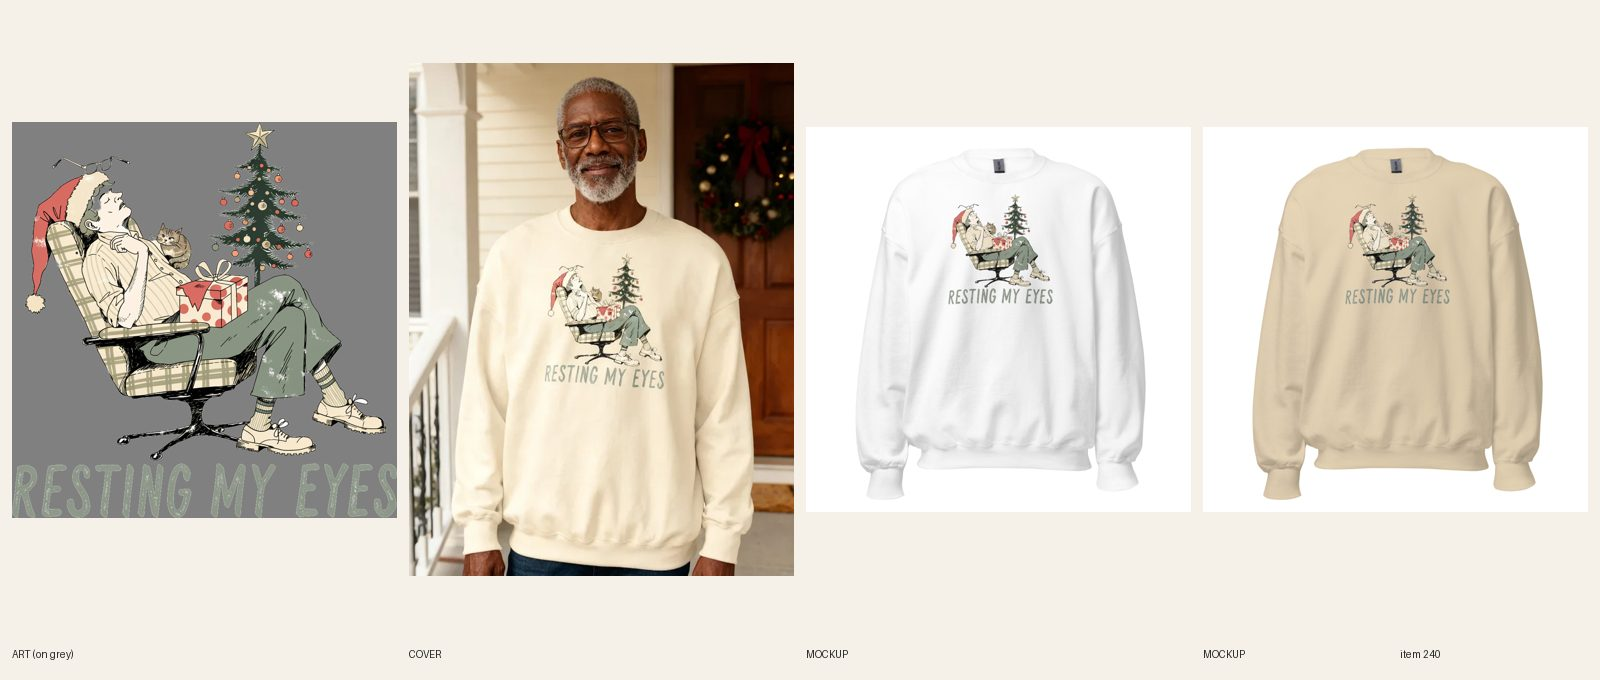
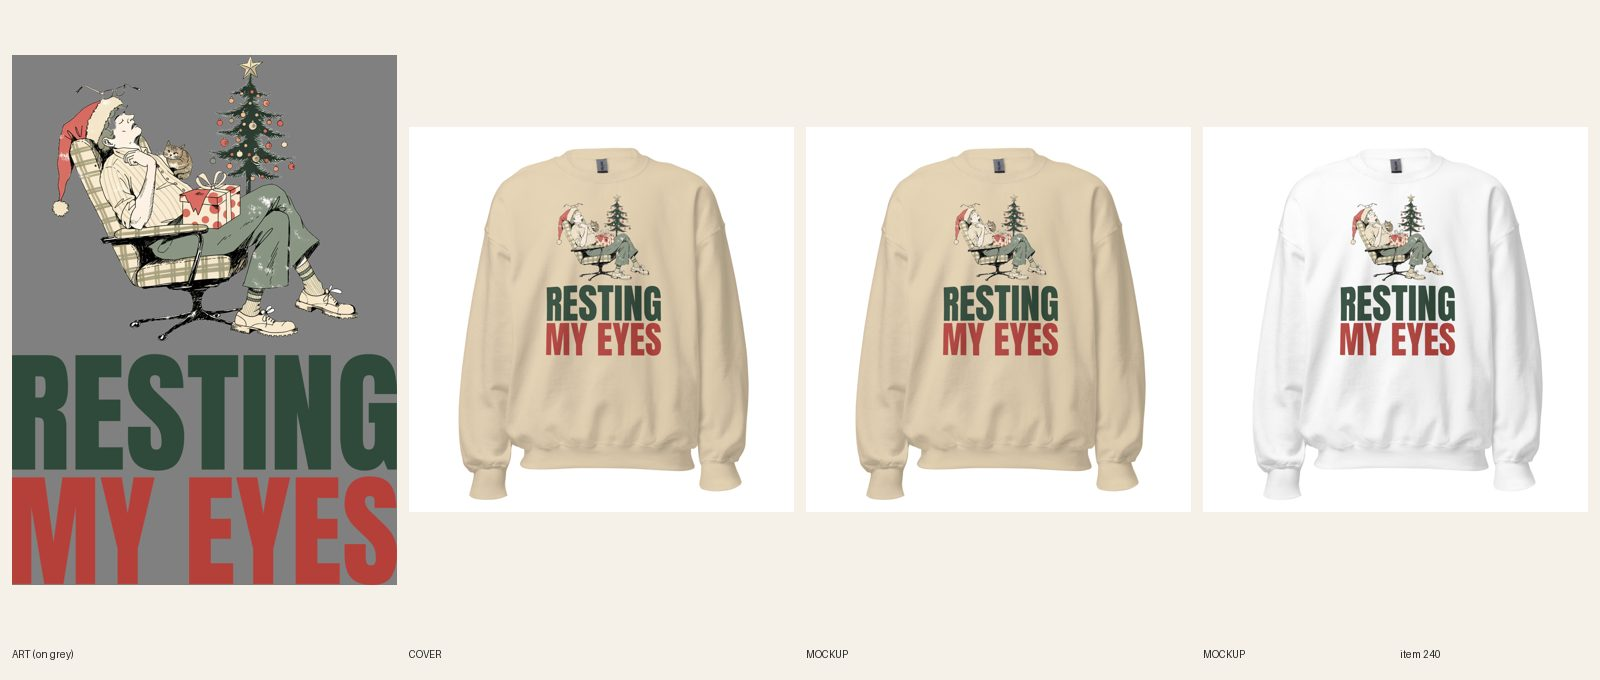
[A] review 240 Resting My Eyes crewneck (ported approved print)
Claude-Session: https://claude.ai/code/session_01WKArn2Q7AZgzsBAUz2oGzG

diff --git a/designs/a239/build-crew.py b/designs/a239/build-crew.py
@@ -1,0 +1,26 @@
+#!/usr/bin/env python3
+"""#239 quality-reset print: Resting My Eyes art (live print cropped above the old thin sage line) over a stacked
+heavy Anton lockup RESTING / MY EYES, both lines full width, tree green and hat red pulled from the art.
+usage: build-crew.py <src.png> <out.png> <art width fraction>  (crewneck file: art narrower so the stack fits the 16 in print area at FW 1650)"""
+import sys
+from pathlib import Path
+from PIL import Image, ImageDraw, ImageFont
+ROOT = Path(__file__).resolve().parents[2]; F = ROOT / 'designs' / 'fonts'
+src, out = sys.argv[1:3]
+W = 3400
+a = Image.open(src).convert('RGBA')
+art = a.crop((0, 0, 3600, 3166)); art = art.crop(art.getbbox())
+AW = int(W * float(sys.argv[3])); art = art.resize((AW, int(art.height * AW / art.width)), Image.LANCZOS)
+def line(text, fill, width, size=1400):
+    f = ImageFont.truetype(str(F / 'Anton-Regular.ttf'), size)
+    bb = f.getbbox(text)
+    img = Image.new('RGBA', (bb[2] + 40, bb[3] + 40), (0, 0, 0, 0))
+    ImageDraw.Draw(img).text((10, 10), text, font=f, fill=fill)
+    img = img.crop(img.getbbox())
+    return img.resize((width, int(img.height * width / img.width)), Image.LANCZOS)
+h = line('RESTING', '#2f4a3a', W); s = line('MY EYES', '#b5403a', W)
+g1, g2 = 110, 50
+c = Image.new('RGBA', (W, art.height + g1 + h.height + g2 + s.height), (0, 0, 0, 0))
+c.alpha_composite(art, ((W - AW) // 2, 0)); c.alpha_composite(h, (0, art.height + g1)); c.alpha_composite(s, (0, art.height + g1 + h.height + g2))
+c = c.crop(c.getbbox()); c.save(out, dpi=(300, 300))
+print(out, c.size, 'head h', h.height, 'sub h', s.height, 'ratio %.2f' % (s.height / h.height))

diff --git a/docs/pipeline/240-christmas-resting-my-eyes-crewneck.md b/docs/pipeline/240-christmas-resting-my-eyes-crewneck.md
@@ -1,4 +1,4 @@
-status: BUILDING [A] 2026-10-19 17:01 UTC
+status: REVIEW
 lane: A
 type: twin
 id: 240
@@ -23,3 +23,4 @@ handle: mens-christmas-resting-my-eyes-crewneck-sweatshirt
 - 2026-10-17 00:49 UTC builder [A]: Printful sync complete; REVIEW.
 - 2026-10-17 01:15 UTC director: LIVE. Reviewed docs/review/240.jpg + Shopify copy; set ACTIVE, published to Online Store, Headless and Google & YouTube; cohesion-audit --handle PASS.
 - 2026-10-19 16:45 UTC director: REDO (match the redone tee). The source tee #239 went LIVE today with the approved type redo (RESTING / MY EYES stacked Anton lockup, pine green over hat red, designs/a239/print.png, Printful file 1089624002); this crewneck still prints the old thin sage line, so the pair no longer matches and the crewneck sits under the quality-reset type bar. The product stays ACTIVE. Port #239's print: crewneck FW 1650 TOP 75 (R5.3.8 twins), light-ink file only if a dark color is offered, relink every variant and log the count (R7.7), new fronts per color, copy lines that describe the lettering updated (R8.3), plain product shot (add the handle to src/data/retired-covers.json if its cover shows the old print). New sheet, then REVIEW.
+- 2026-10-19 17:16 UTC builder [A]: REDO 240 ported #239's approved RESTING / MY EYES print to the Gildan 18000 crewneck. The 3400x5314 tee file clipped MY EYES at FW 1650 (print area 16 in), so a crew file with the art at 80% width and both lines full width (designs/a239/build-crew.py, 3400x4681, Printful file 1089684857) at FW 1650 TOP 75. Dark inks on White, Sand, Ash, Sport Grey, Light Blue only, no dark colors offered, light file n/a. Relinked 30/30 (back logo kept, R7.7). 5 fronts replaced in place, phone-size read OK. Copy: Story line and FAQ rewritten to the new lettering, 5 FAQs 47-51 words, Dec 8 order-by. Plain product shot: handle added to retired-covers.json. audit --handle PASS 0 warn. fal $0. Sheet docs/review/240.jpg. REVIEW.

diff --git a/docs/intake-log.md b/docs/intake-log.md
@@ -1,6 +1,6 @@
 RUNNING lane E since 2026-10-19 17:16 UTC
 RUNNING director since 2026-10-19 17:13 UTC
-RUNNING lane A since 2026-10-19 17:01 UTC
+2026-10-19 17:16 UTC — [A] Builder run: redid #240 Resting My Eyes crewneck (ported #239's approved print; crew file at 80% art width so MY EYES fits the print area at FW 1650; 30/30 synced, 5 mockups replaced, plain product shot). REVIEW. fal $0. Lock released.
 2026-10-19 16:57 UTC — [C] Builder run: redid #441 Eight Arms oversized hoodie again (director R5.3.8: separate navy-headline Dust file 1089678989, Dust 6/6 relinked, Dust front replaced in place, Navy unchanged). REVIEW. fal $0. 1 redo per run cap reached. Lock released.
 2026-10-19 16:47 UTC — [H] Helper run: Telegram inbox empty (getUpdates returned 0 updates; nothing to consume, no pause or resume). Audit (598 live products): 0 errors, 30 warnings left alone (polish). Price errors 0, so the announcement bar already carries the holiday line. Category check: 0 products without a category. Site check: 3 newest LIVE pages (womens-cat-making-biscuits-hoodie, unisex-national-park-switchbacks-build-character-heavyweight-hoodie, unisex-christmas-card-photo-survivor-graphic-tee) return 200. Stuck work: none (one BUILDING item, #557 from 16:46; all lane locks under 2 hours). Daily summary not due (sent 16:05). Installed node_modules with npm ci so the audit could run. Lock released.
 2026-10-19 17:12 UTC — [E] Builder run: redid #557 Cat Dad tee (type only: Bowlby One cream CAN'T. / mustard CAT'S ON ME. lockup at full art width, same cat art, FW 1650, 28/28 resynced, 4 fronts replaced in place, plain product shot). REVIEW. fal $0. 1 redo per run cap reached. Lock released.
